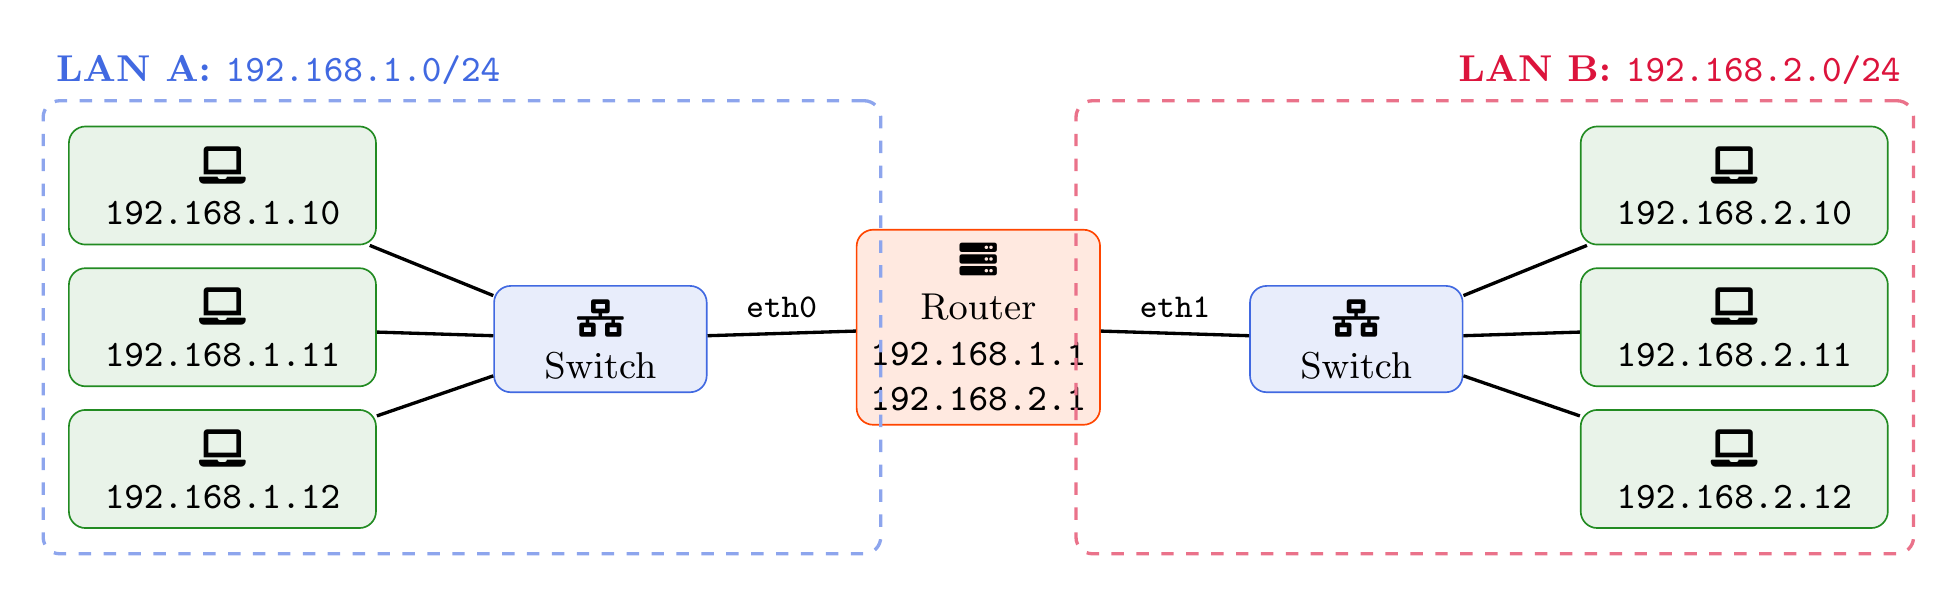
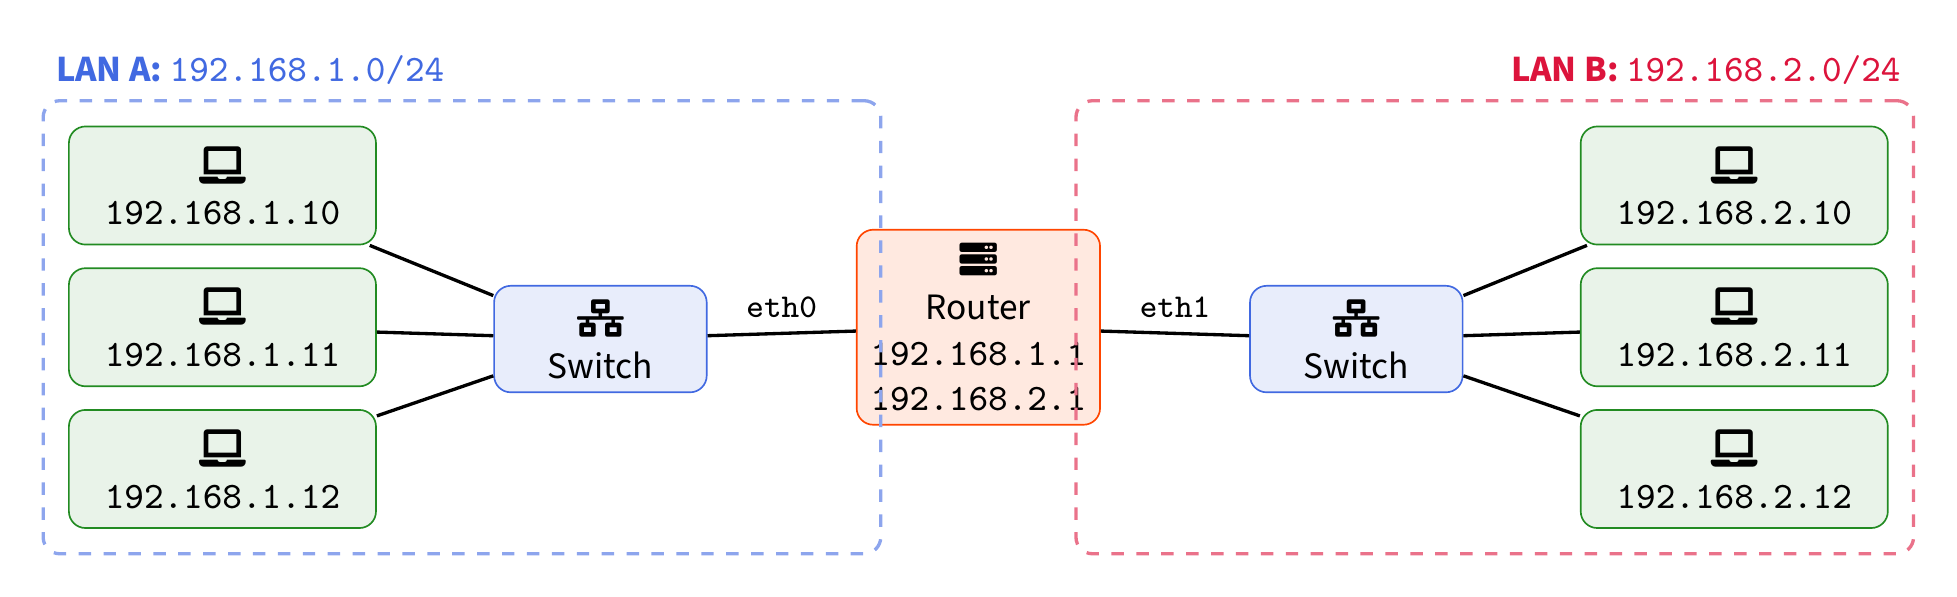
change font of images

diff --git a/networking/figures/tcp_header.tex b/networking/figures/tcp_header.tex
@@ -1,4 +1,6 @@
 \documentclass[border=10pt]{standalone}
+\usepackage[T1]{fontenc}
+\usepackage[default]{sourcesanspro}
 \usepackage[table]{xcolor}
 \definecolor{Indigo}{RGB}{75,0,130}
 \definecolor{orange}{RGB}{255,165,0}

diff --git a/networking/figures/schichtenmodell_envelope.tex b/networking/figures/schichtenmodell_envelope.tex
@@ -1,4 +1,6 @@
 \documentclass[border=10pt]{standalone}
+\usepackage[T1]{fontenc}
+\usepackage[default]{sourcesanspro}
 \usepackage{tikz}
 \usepackage{xcolor}
 \usetikzlibrary{calc,decorations,decorations.pathreplacing}

diff --git a/networking/figures/ip_address.tex b/networking/figures/ip_address.tex
@@ -1,4 +1,6 @@
 \documentclass[border=10pt]{standalone}
+\usepackage[T1]{fontenc}
+\usepackage[default]{sourcesanspro}
 \usepackage{tikz}
 \usepackage{xcolor}
 \usetikzlibrary{positioning,calc}

diff --git a/networking/figures/osi_tcp_table.tex b/networking/figures/osi_tcp_table.tex
@@ -1,4 +1,6 @@
 \documentclass[border=10pt]{standalone}
+\usepackage[T1]{fontenc}
+\usepackage[default]{sourcesanspro}
 \usepackage[table]{xcolor}
 \usepackage{array}
 \usepackage{booktabs}

diff --git a/networking/figures/nat.tex b/networking/figures/nat.tex
@@ -1,4 +1,6 @@
 \documentclass[border=10pt]{standalone}
+\usepackage[T1]{fontenc}
+\usepackage[default]{sourcesanspro}
 \usepackage{tikz}
 \usepackage{xcolor}
 \usetikzlibrary{positioning}

diff --git a/networking/figures/subnets.tex b/networking/figures/subnets.tex
@@ -1,4 +1,6 @@
 \documentclass[border=10pt]{standalone}
+\usepackage[T1]{fontenc}
+\usepackage[default]{sourcesanspro}
 \usepackage{tikz}
 \usepackage{fontawesome5}
 \usepackage{xcolor}

diff --git a/networking/figures/schichtenmodell_analogie.tex b/networking/figures/schichtenmodell_analogie.tex
@@ -1,4 +1,6 @@
 \documentclass[border=10pt]{standalone}
+\usepackage[T1]{fontenc}
+\usepackage[default]{sourcesanspro}
 \usepackage{tikz}
 \usepackage{fontawesome}
 \usepackage{xcolor}

diff --git a/networking/figures/tcp_handshake.tex b/networking/figures/tcp_handshake.tex
@@ -1,4 +1,6 @@
 \documentclass[border=10pt]{standalone}
+\usepackage[T1]{fontenc}
+\usepackage[default]{sourcesanspro}
 \usepackage{tikz}
 \usepackage{fontawesome}
 \usepackage{xcolor}
